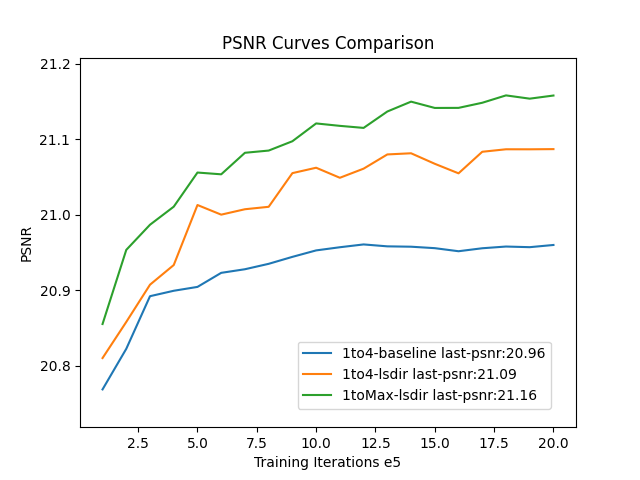
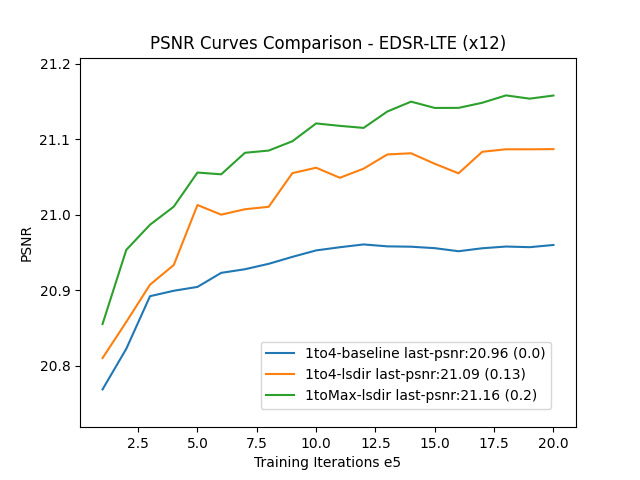
upload qualitative results

Changed region(s): [[0.4062, 0.7188, 0.875, 0.8438], [0.2188, 0.0625, 0.7812, 0.125]]

diff --git a/liif/scripts/plot_psnr_curves_from_pickle.py b/liif/scripts/plot_psnr_curves_from_pickle.py
@@ -2,23 +2,27 @@ import matplotlib.pyplot as plt
 import os
 import pickle
 
-scale  = "30"
+scale  = "12"
 
 base_path = 'test_curves/psnr_lists/' + scale
 
 paths = [base_path + '/eval_results1to4-baseline.pickle', 
          base_path + '/eval_results1toMax.pickle', 
+         base_path + '/eval_results1to4-flickr.pickle',
+         base_path + '/eval_results1toMax-flickr.pickle',
          base_path + '/eval_results1to4-lsdir.pickle',
          base_path + '/eval_results1toMax-lsdir.pickle',
-         base_path + '/eval_results1toMax-lsdir-finetune-1to4-lr-1.e-5.pickle',
+         # base_path + '/eval_results1toMax-lsdir-finetune-1to4-lr-1.e-5.pickle',
          #base_path + '/eval_results1toMax-lsdir-5m-iterations.pickle',
          ]
 
 labels = ['1to4-baseline',
           '1toMax',
+          '1to4-flickr',
+          '1toMax-flickr',
           '1to4-lsdir',
           '1toMax-lsdir',
-          '1toMax-finetune-1to4-lr-1e-5',
+          # '1toMax-finetune-1to4-lr-1e-5',
           #'1toMax-5m-iterations',
           ]
 
@@ -60,11 +64,14 @@ ax.set_xlabel("Training Iterations e5")
 ax.set_ylabel("PSNR")
 
 # Set title
-ax.set_title("PSNR Curves Comparison")
+ax.set_title("PSNR Curves Comparison - EDSR-LTE (x" + scale + ")")
+
+baseline_psnr = round(psnr_lists[0][-1], 2)
 
 # Plot each PSNR list as a curve
 for i, psnr_list in enumerate(psnr_lists):
-    ax.plot(range(1, len(psnr_list)+1), psnr_list, label=labels[i] + " last-psnr:" + str(round(psnr_list[-1], 2)))
+    ax.plot(range(1, len(psnr_list)+1), psnr_list, label=labels[i] + " last-psnr:" + str(round(psnr_list[-1], 2)) + " (" 
+            + str(round(round(psnr_list[-1], 2) - baseline_psnr, 2)) + ")")
 
 # Set the position of the legend
 ax.legend(loc='lower right', bbox_to_anchor=(0.95, 0.05), borderaxespad=0.0)

diff --git a/CiaoSR/configs/ciaosr/001_localimplicitsr_edsr_div2k_g1_c64b16_1000k_unfold_lec_mulwkv_res_nonlocal.py b/CiaoSR/configs/ciaosr/001_localimplicitsr_edsr_div2k_g1_c64b16_1000k_unfold_lec_mulwkv_res_nonlocal.py
@@ -46,8 +46,8 @@ model = dict(
     pixel_loss=dict(type='L1Loss', loss_weight=1.0, reduction='mean'))
 # model training and testing settings
 train_cfg = None
-# test_cfg = dict(metrics=['PSNR', 'SSIM'], crop_border=val_scale, tile=128, tile_overlap=32, scale=val_scale) #, convert_to='y' val_scale+6
-test_cfg = dict(metrics=['PSNR', 'SSIM'], crop_border=val_scale, scale=val_scale) #, convert_to='y' val_scale+6
+test_cfg = dict(metrics=['PSNR', 'SSIM'], crop_border=val_scale, tile=64, tile_overlap=32, scale=val_scale) #, convert_to='y' val_scale+6
+# test_cfg = dict(metrics=['PSNR', 'SSIM'], crop_border=val_scale, scale=val_scale) #, convert_to='y' val_scale+6
 
 
 # dataset settings
@@ -178,7 +178,7 @@ dist_params = dict(backend='nccl')
 log_level = 'INFO'
 work_dir = f'{run_dir}/{exp_name}'
 load_from = None
-resume_from = 'work_dirs/001_localimplicitsr_edsr_div2k_g1_c64b16_1000k_unfold_lec_mulwkv_res_nonlocal/iter_714000.pth'
+resume_from = None
 workflow = [('train', 1)]
 find_unused_parameters = True
 test_checkpoint_path = f'{run_dir}/{exp_name}/latest.pth' # use --checkpoint None to enable this path in testing

diff --git a/liif/scripts/plot_psnr_curves_from_pickle_urban100.py b/liif/scripts/plot_psnr_curves_from_pickle_urban100.py
@@ -2,7 +2,7 @@ import matplotlib.pyplot as plt
 import os
 import pickle
 
-scale  = "2"
+scale  = "12"
 
 base_path = 'test_curves/psnr_lists/' + scale + '_urban100'
 
@@ -56,12 +56,14 @@ ax.set_xlabel("Training Iterations e5")
 ax.set_ylabel("PSNR")
 
 # Set title
-ax.set_title("PSNR Curves Comparison - Urban100 for scale " + scale)
+ax.set_title("PSNR Curves Comparison - EDSR-LTE (x" + scale + ")")
+
+baseline_psnr = round(psnr_lists[0][-1], 2)
 
 # Plot each PSNR list as a curve
 for i, psnr_list in enumerate(psnr_lists):
-    ax.plot(range(1, len(psnr_list)+1), psnr_list, label=labels[i] + " last-psnr:" + str(round(psnr_list[-1], 2)))
-
+    ax.plot(range(1, len(psnr_list)+1), psnr_list, label=labels[i] + " last-psnr:" + str(round(psnr_list[-1], 2)) + " (" 
+            + str(round(round(psnr_list[-1], 2) - baseline_psnr, 2)) + ")")
 # Set the position of the legend
 ax.legend(loc='lower right', bbox_to_anchor=(0.95, 0.05), borderaxespad=0.0)
 

diff --git a/liif/test_images/concat_images.py b/liif/test_images/concat_images.py
@@ -3,8 +3,8 @@ from PIL import Image
 from tqdm import tqdm
 
 save_folder = 'concatenated_images'
-image_folder1 = './_test-urban100-18__train_edsr-baseline-lte-variable-input_sample-2304-scale-1to4-batch-16-last'
-image_folder2 = './_test-urban100-18__train_edsr-baseline-lte-variable-input-lsdir2_sample-4096-scale-1toMax-batch-32-inputs-48-lsdir-last'
+image_folder1 = './_test-div2k-2__train_edsr-baseline-lte-variable-input_sample-2304-scale-1to4-batch-16-last'
+image_folder2 = './_test-div2k-2__train_edsr-baseline-lte-variable-input-lsdir2_sample-4096-scale-1toMax-batch-32-inputs-48-lsdir-last'
 
 # the number of epochs passed until we save images -> set in test.py
 num_epochs = 1

diff --git a/liif/scripts/plot_scales_distribution.py b/liif/scripts/plot_scales_distribution.py
@@ -3,7 +3,7 @@ import os
 import pickle
 
 # Path to pickle files
-path = 'save_test/_train_edsr-baseline-lte-variable-input4-2_sample-4096-scale-1toMax-batch-32-inputs-48-lr-schedule-flickr2k-scale-mlp/'
+path = 'save_test/_train_edsr-baseline-lte-variable-input-lsdir2_sample-4096-scale-1toMax-batch-32-inputs-48-lsdir-5M-iterations/'
 
 bins = 60
 
